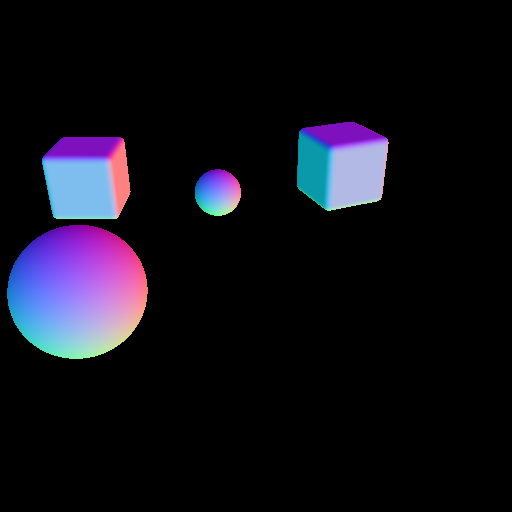
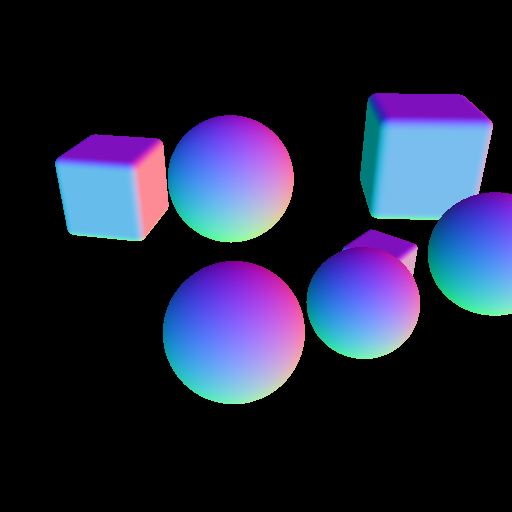
update readmme

diff --git a/Assets/VisualObjs.cs b/Assets/VisualObjs.cs
@@ -9,7 +9,7 @@ using Object = UnityEngine.Object;
 
 public partial class VisualObjs : MonoBehaviour
 {
-    static int OBJ_NUM = 4;
+    static int OBJ_NUM = 7;
     int MAX_NUM_TRIES = 50;
     float TABLE_WIDTH_BASE = 1.5F;
     float TABLE_LENGTH_BASE = 1.5F;

diff --git a/README.md b/README.md
@@ -1,9 +1,38 @@
-# hide_dataset_unity
-Hide dataset based on Unity
 
+# Hide Project Update
 
+A simple version of the **Dataset Generator(DG)** is setted down and available on the [github](https://github.com/akweury/hide_dataset_unity).
 
-## define hide 
-1. 100% hide the object out of the view
-2. hide the object partially/completely as long as they are not able to be detected.
+Each **scene** with the following data
 
+- RGB image
+- Depth Map
+- Normal Map
+- JSON File contains camera position & direction, object information(id, position, shape, size, material)
+
+![ExampleImage](./example_image.png)
+![ExampleDepth](./example_depth.png)
+![ExampleNormal](./example_normal.png)
+### Tasks
+
+#### Hide objects
+- Move objects to make target object completely(100%) invisible
+- Move objects to make target object undetectable (not necessary 100% invisible)
+
+#### Find objects
+- Move objects to make target object mostly/completely visible;
+- Move objects to make target object detectable.
+
+### Modelling the world
+
+- Target Format: 
+  - 1-tuple: (Obj), e.g. (green ball)
+- Solution Format:
+  - 3-tuple: (Obj, Position, Obj), e.g. (green ball, behind, bigger pink cube),
+  - (bigger pink cube, in front of, green ball)
+- Position Domain:
+  - {left, right, in front of, behind} 
+- Object Domain:
+  - {all the objects}
+
+![ExampleTask](./task_example.png)
